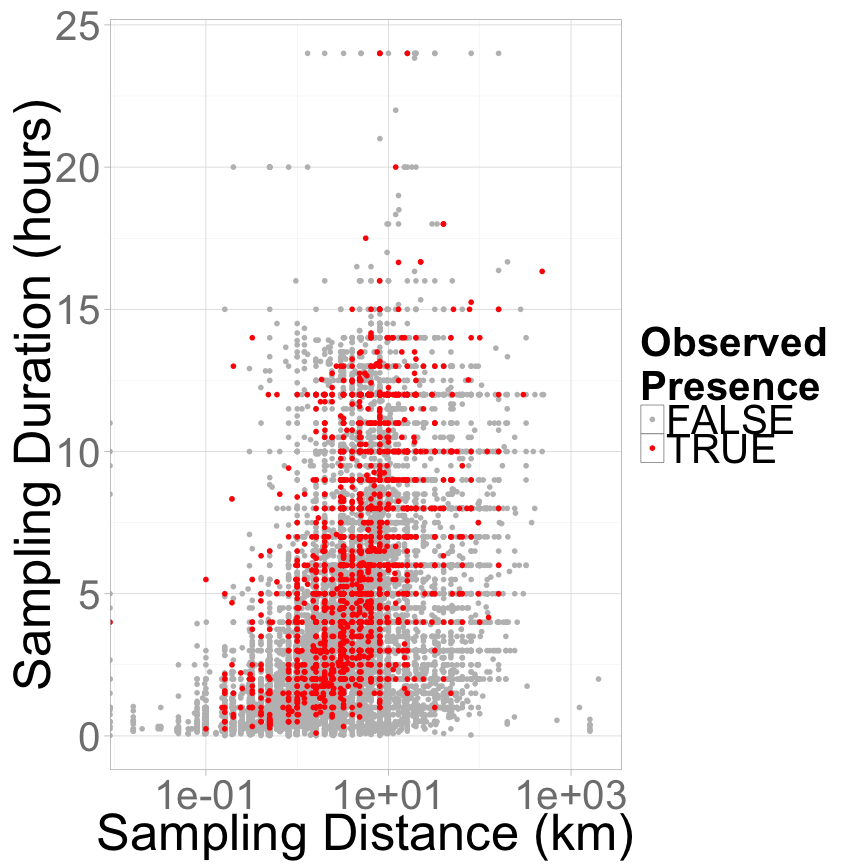
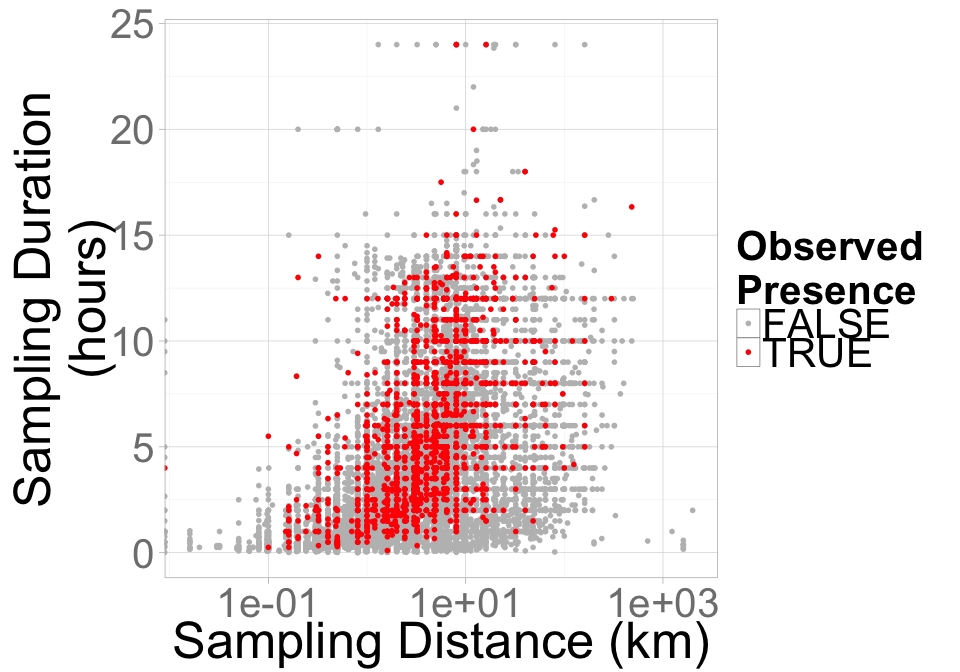
update duration plot

diff --git a/hSDM_Tutorial.md b/hSDM_Tutorial.md
@@ -193,7 +193,7 @@ ggplot(spd_all,aes(
   colour=presence==1,
   order=as.factor(presence)))+
   scale_colour_manual(values=c("grey","red"))+
-  ylab("Sampling Duration (hours)")+
+  ylab("Sampling Duration\n(hours)")+
   xlab("Sampling Distance (km)")+
   labs(colour = "Observed\nPresence")+
   geom_point()+scale_x_log10()
